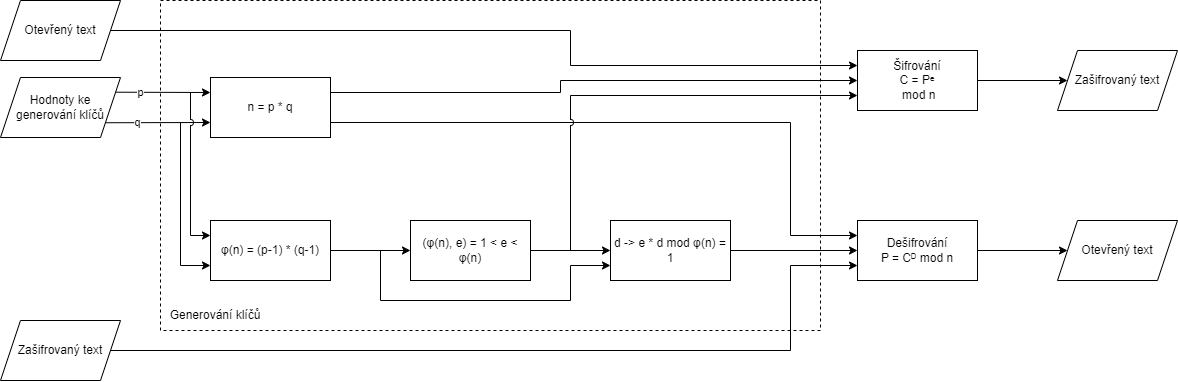
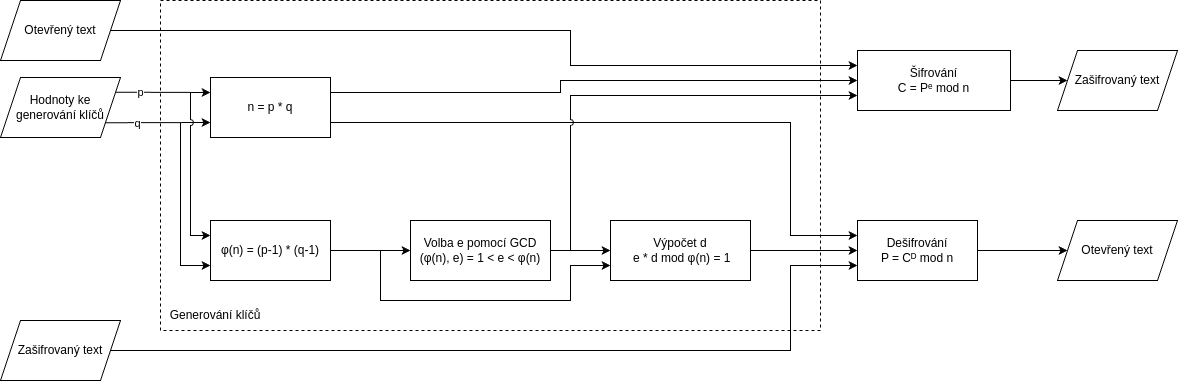
fix: rsa implementation fixed

diff --git a/resources/views/asymmetricCiphers/rsaCipher.blade.php b/resources/views/asymmetricCiphers/rsaCipher.blade.php
@@ -47,11 +47,11 @@
                                 <div class="col-lg-6">
                                     <label class="form-label" for="text">
                                         @lang('baseTexts.text')
-                                        <x-tooltipButton :tooltip="trans('baseTexts.inputText')"></x-tooltipButton>
+                                        <x-tooltipButton :tooltip="trans('rsaPageTexts.inputTextTooltip')"></x-tooltipButton>
                                     </label>
                                     <input class="form-control" maxlength="40" minlength="1" required type="text"
                                            id="text" name="text"
-                                           placeholder="@lang('baseTexts.inputText')"
+                                           placeholder="@lang('baseTexts.text')"
                                            @if(isset($data['text'])) value="{{ $data['text'] }}" @endif
                                     />
                                 </div>
@@ -86,24 +86,24 @@
                             <fieldset class="row p-2 disableOnDecrypt">
                                 <div class="col-lg-6">
                                     <label class="form-label" for="primeNumber1">
-                                        1. @lang('rsaPageTexts.primeNumber')
+                                        @lang('rsaPageTexts.primeNumber') p
                                         <x-tooltipButton
                                             :tooltip="trans('rsaPageTexts.insertPrimeNumberTooltip')"></x-tooltipButton>
                                     </label>
                                     <input class="form-control primeNumber disableOnDecrypt"
-                                           placeholder="@lang('rsaPageTexts.insertPrimeNumber')" min="1" type="number"
+                                           placeholder="@lang('rsaPageTexts.insertPrimeNumber')" min="13" type="number"
                                            id="primeNumber1" name="primeNumber1"
                                            @if(isset($data['primeNumber1'])) value="{{ $data['primeNumber1'] }}"
                                            @endif required/>
                                 </div>
                                 <div class="col-lg-6">
                                     <label class="form-label" for="primeNumber2">
-                                        2. @lang('rsaPageTexts.primeNumber')
+                                        @lang('rsaPageTexts.primeNumber') q
                                         <x-tooltipButton
                                             :tooltip="trans('rsaPageTexts.insertPrimeNumberTooltip')"></x-tooltipButton>
                                     </label>
                                     <input class="form-control primeNumber disableOnDecrypt"
-                                           placeholder="@lang('rsaPageTexts.insertPrimeNumber')" min="1" type="number"
+                                           placeholder="@lang('rsaPageTexts.insertPrimeNumber')" min="23" type="number"
                                            id="primeNumber2" name="primeNumber2"
                                            @if(isset($data['primeNumber2'])) value="{{ $data['primeNumber2'] }}"
                                            @endif required/>
@@ -258,12 +258,6 @@
                                                 <h4><i class="fa-solid fa-keyboard"></i> @lang('rsaPageTexts.inputChar')
                                                 </h4>
                                                 <p>{{ $step->getInputChar() }}</p>
-                                            </div>
-                                            <div class="col-lg-5">
-                                                <h4>
-                                                    <i class="fa-solid fa-calculator"></i> @lang('rsaPageTexts.beforeModulo')
-                                                </h4>
-                                                <p>{{ $step->getBeforeModulo() }}</p>
                                             </div>
                                             <div class="col-lg-5">
                                                 <h4>

diff --git a/app/Algorithms/Ciphers/Rsa.php b/app/Algorithms/Ciphers/Rsa.php
@@ -11,7 +11,7 @@ class Rsa extends CipherBase
 {
     public function __construct(string $text, private ?int $publicKey, private ?int $privateKey, int $operation, private ?int $p, private ?int $q)
     {
-        // For this case we convert input string into ascii, each character splitted by ' '
+        // For this case we convert input string into ascii, each character separated by ' '
         $text = $operation === CipherBase::ALGORITHM_ENCRYPT ? $this->getAsciiFromString($text) : $text;
         parent::__construct($text, null, $operation);
     }
@@ -24,11 +24,9 @@ class Rsa extends CipherBase
         $d = $this->privateKey;
 
         foreach (explode(' ', $this->text) as $char) {
-            $c = gmp_pow(gmp_init($char), $d); // use first part of encryption key -> $e
-            $cBeforeModulo = gmp_intval($c);
-            $c = gmp_mod($c, $n); // use of second part of encryption key to generate encrypted char -> $n
+            $c = gmp_powm(gmp_init($char), $d, $n); // uses binary exponentiation (CORM09)
             $result .= $c.' ';
-            $steps[] = new RSAStep(beforeModulo: $cBeforeModulo, inputChar: (int) $char, outputChar: gmp_intval($c));
+            $steps[] = new RSAStep(inputChar: (int) $char, outputChar: gmp_intval($c));
         }
 
         // Return the resulting output object
@@ -50,7 +48,7 @@ class Rsa extends CipherBase
         $n = gmp_mul($p,$q);
 
         // fermat number
-        $e = 257;
+        $e = 65537;
         // declaring phi
         $phi = gmp_mul(gmp_sub($p,1), gmp_sub($q, 1));
         // searching for co-prime number
@@ -72,10 +70,8 @@ class Rsa extends CipherBase
         $result = '';
         $steps = [];
         foreach (explode(' ', $this->text) as $char) {
-            $c = gmp_pow(gmp_init($char), $e); // use first part of encryption key -> $e
-            $cBeforeModulo = gmp_intval($c);
-            $c = gmp_mod($c, $n); // use of second part of encryption key to generate encrypted char -> $n
-            $steps[] = new RSAStep(beforeModulo: $cBeforeModulo, inputChar: (int) $char, outputChar: gmp_intval($c));
+            $c = gmp_powm(gmp_init($char), $e, $n); // uses binary exponentiation (CORM09)
+            $steps[] = new RSAStep(inputChar: (int) $char, outputChar: gmp_intval($c));
             $result .= $c.' ';
         }
 

diff --git a/lang/en/rsaPageTexts.php b/lang/en/rsaPageTexts.php
@@ -15,12 +15,13 @@ return [
     'schema' => 'Block diagram of RSA',
 
     'primeNumber' => 'Prime number',
+    'inputTextTooltip' => 'For encryption, enter plain text. For decryption, enter text in ASCII numeric values, each letter separated by a space',
     'asciiText' => 'ASCII value of the text',
     'calculatedVariables' => 'Calculated values',
     'inputChar' => 'Input character in ASCII',
     'outputChar' => 'Output',
     'beforeModulo' => 'Numeric value before the modulus',
-    'insertPrimeNumber' => 'Enter a prime number',
+    'insertPrimeNumber' => 'Enter a prime number p >= 13, q >= 23',
     'insertPrimeNumberTooltip' => 'The product of prime numbers must be higher than 255 - for the possibility of encrypting all ASCII characters',
     'firstNumberNotPrime' => 'The first number entered is not a prime number',
     'secondNumberNotPrime' => 'The second number entered is not a prime number',

diff --git a/lang/cz/rsaPageTexts.php b/lang/cz/rsaPageTexts.php
@@ -15,12 +15,13 @@ return [
     'schema' => 'Blokové schéma RSA',
 
     'primeNumber' => 'Prvočíslo',
+    'inputTextTooltip' => 'V případě šifrování vlož běžný text, pro dešifrování vlož text v ASCII číselných hodnotách každé písmeno odděleno mezerou',
     'asciiText' => 'ASCII hodnota textu',
     'calculatedVariables' => 'Vypočítané hodnoty',
     'inputChar' => 'Vstupní znak v ASCII',
     'outputChar' => 'Výstup',
     'beforeModulo' => 'Číselná hodnota před modulem',
-    'insertPrimeNumber' => 'Zadej prvočíslo',
+    'insertPrimeNumber' => 'Zadej prvočíslo p >= 13, q >= 23',
     'insertPrimeNumberTooltip' => 'Součin prvočísel musí být vyšší jak 255 - pro možnost zašifrování všech znaků z ASCII',
     'firstNumberNotPrime' => 'První zadané číslo není prvočíslo',
     'secondNumberNotPrime' => 'Druhé zadané číslo není prvočíslo',

diff --git a/app/Algorithms/Output/Steps/RSAStep.php b/app/Algorithms/Output/Steps/RSAStep.php
@@ -4,14 +4,9 @@ namespace App\Algorithms\Output\Steps;
 
 class RSAStep extends Step
 {
-    public function __construct(private float $beforeModulo, private int $inputChar, private int $outputChar)
+    public function __construct(private int $inputChar, private int $outputChar)
     {
         parent::__construct();
-    }
-
-    public function getBeforeModulo(): int
-    {
-        return $this->beforeModulo;
     }
 
     public function getInputChar(): int

diff --git a/app/Http/Controllers/RsaCipherController.php b/app/Http/Controllers/RsaCipherController.php
@@ -48,9 +48,8 @@ class RsaCipherController extends BaseController
             $this->isPrimeNumber($secondInputNumber, trans('baseTexts.primeNumber').' #2');
         }
 
-        if (! empty($this->validationFailedVariable)) {
+        if (!empty($this->validationFailedVariable)) {
             Session::flash('alert-error', $this->getValidationErrorTranslation());
-
             return back()->withInput($data);
         }
 
